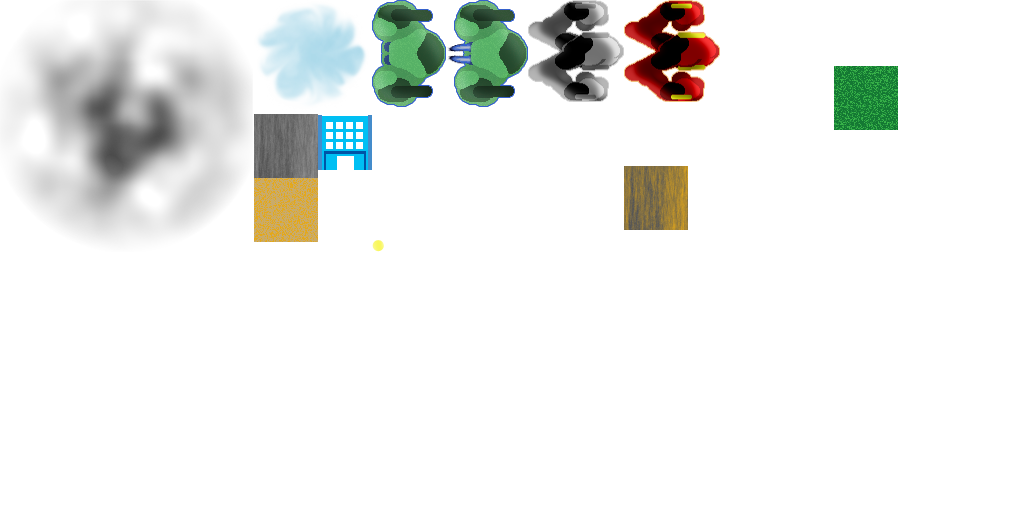
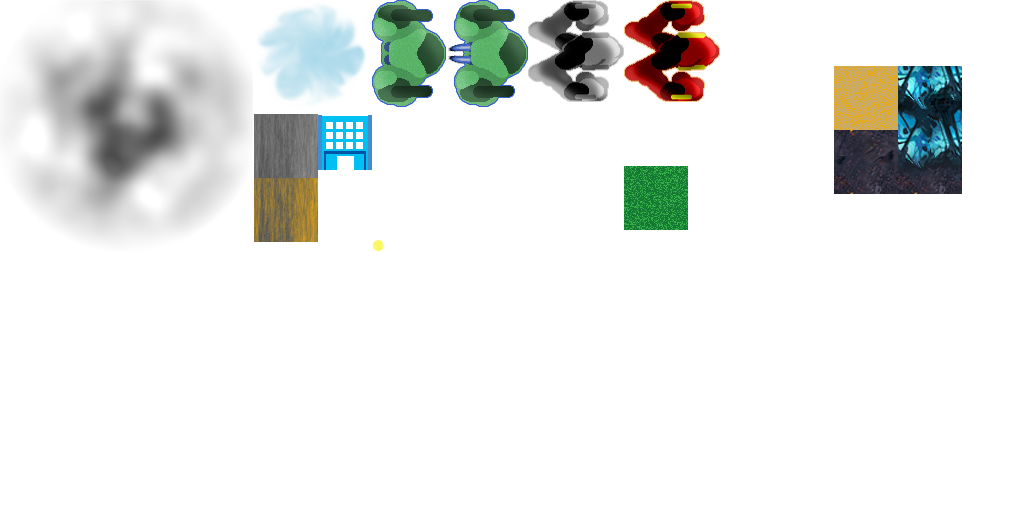
new tileset. towards ambient occlusion

Changed region(s): [[0.8125, 0.125, 0.9375, 0.4062], [0.5938, 0.3125, 0.6875, 0.4688], [0.25, 0.3438, 0.3125, 0.5]]

diff --git a/worldgen.c b/worldgen.c
@@ -19,6 +19,7 @@ enum TestTiles {
   TILE_DIRT,
   TILE_STONE,
   TILE_STONE2,
+  TILE_DIRTSTONE_TRANSITION,
   TILE_BUILDING,
   TILE_MAX
 };
@@ -97,16 +98,18 @@ TileMap tilemap_testmake(SpriteAtlas atlas) {
   TileSpec specs = malloc(sizeof(struct TileSpec_) * TILE_MAX);
   int standard = TILESPEC_COLLIDABLE | TILESPEC_VISIBLE;
 
-  specs[TILE_BLANK].bitmask = TILESPEC_PASSABLE;
   specs[TILE_BLANK].image = NULL;
+  specs[TILE_BLANK].bitmask = TILESPEC_PASSABLE;
   specs[TILE_GRASS].image = spriteatlas_find(atlas, "grass.png");
   specs[TILE_GRASS].bitmask = standard;
-  specs[TILE_DIRT].image = spriteatlas_find(atlas, "dirt.png");
+  specs[TILE_DIRT].image = spriteatlas_find(atlas, "techno1.png");
   specs[TILE_DIRT].bitmask = standard;
-  specs[TILE_STONE].image = spriteatlas_find(atlas, "stone.png");
+  specs[TILE_STONE].image = spriteatlas_find(atlas, "techno2.png");
   specs[TILE_STONE].bitmask = standard;
   specs[TILE_STONE2].image = spriteatlas_find(atlas, "stone2.png");
   specs[TILE_STONE2].bitmask = standard;
+  specs[TILE_DIRTSTONE_TRANSITION].image = spriteatlas_find(atlas, "12uptransition.png");
+  specs[TILE_DIRTSTONE_TRANSITION].bitmask = standard;
   specs[TILE_BUILDING].image = spriteatlas_find(atlas, "building.png");
   specs[TILE_BUILDING].bitmask = standard | TILESPEC_PASSABLE;
 
@@ -216,6 +219,19 @@ TileMap tilemap_testmake(SpriteAtlas atlas) {
   }
   PROFILE_END(&timer);
 
+  // look for stone to dirt transition points
+  int mapsize = MAXX * MAXY;
+  for(xx = 0; xx < mapsize; ++xx) {
+    if(map->tiles[xx] == TILE_DIRT) {
+      int up_idx = xx + MAXX;
+      if(up_idx >= mapsize) continue;
+
+      if(map->tiles[up_idx] == TILE_STONE) {
+        map->tiles[xx] = TILE_DIRTSTONE_TRANSITION;
+      }
+    }
+  }
+
   // replace the bottom row with stone and the top row with sky
   int top_row = (MAXY - 1) * (MAXX - 1);
   for(xx = 0; xx < MAXX; ++xx) {
@@ -226,10 +242,14 @@ TileMap tilemap_testmake(SpriteAtlas atlas) {
   // floodfill from the top and see what we get
   PROFILE_START(&timer, "finding reachable regions");
   struct TilePosition_ start = {0, MAXY - 1};
-  int8_t * reachable = malloc(tilemap_size(map));
-  memset(reachable, -1, tilemap_size(map));
-  struct CharImage_ reachable_img = { MAXX, MAXY, reachable };
-  struct CharImage_ map_img = { MAXX, MAXY, map->tiles };
+
+  struct CharImage_ reachable_img;
+  charimage_init_sizeof_tilemap(&reachable_img, map);
+  memset(reachable_img.data, -1, tilemap_size(map));
+
+  struct CharImage_ map_img;
+  charimage_from_tilemap(&map_img, map);
+
   charimage_floodfill(&reachable_img, &map_img, &start, 1, NULL, NULL);
   PROFILE_END(&timer);
 
@@ -300,7 +320,7 @@ TileMap tilemap_testmake(SpriteAtlas atlas) {
   }
 
   heapvector_free(hv);
-  free(reachable);
+  free(reachable_img.data);
   free(correlation_img.data);
 
   return map;

diff --git a/tiles.c b/tiles.c
@@ -207,6 +207,12 @@ void charimage_from_tilemap(CharImage img, TileMap map) {
   img->data = map->tiles;
 }
 
+void charimage_init_sizeof_tilemap(CharImage img, TileMap map) {
+  img->w = map->width_IT;
+  img->h = map->height_IT;
+  img->data = malloc(img->w * img->h);
+}
+
 void charimage_crosscorrelate(CharImage out, CharImage big, CharImage small) {
   int out_width = big->w - small->w;
   int out_height = big->h - small->h;
@@ -311,4 +317,51 @@ void charimage_spit(CharImage img, const char* filename) {
   }
   charimage_write(img, target);
   fclose(target);
+}
+
+static int region[][3] = {
+  {0, 1, 2},
+  {1, 1, 3},
+  {1, 0, 2},
+  {1, -1, 3},
+  {0, -1, 2},
+  {-1, -1, 3},
+  {-1, 0, 2},
+  {-1, 1, 3}
+};
+
+static int nregion = sizeof(region) / 3;
+
+// chars are ~dist scaled by 2
+char ambient_occlusion(TileMap map, int xx, int yy) {
+  int zz;
+  char result = 0;
+  for(zz = 0; zz < nregion; ++zz) {
+    int ox = region[zz][0];
+    int oy = region[zz][1];
+    int incr = region[zz][2];
+
+    struct TilePosition_ tpos = {xx + ox, yy + oy};
+    if(!tilemap_validindex(map, &tpos)) {
+      // the world edges are occluders
+      result += incr;
+      continue;
+    }
+
+    int8_t kind = map->tiles[tilemap_index(map, &tpos)];
+    if(map->tile_specs[kind].bitmask & TILESPEC_VISIBLE) {
+      result += incr;
+    }
+  }
+  return result;
+}
+
+void charimage_ambient_occlusion(CharImage occlusion, TileMap map) {
+  int xx, yy;
+  for(yy = 0; yy < map->height_IT; ++yy) {
+    for(xx = 0; xx < map->width_IT; ++xx) {
+      int ridx = charimage_index(occlusion, xx, yy);
+      occlusion->data[ridx] = ambient_occlusion(map, xx, yy);
+    }
+  }
 }

diff --git a/tiles.h b/tiles.h
@@ -24,6 +24,11 @@ typedef struct TileSpec_ {
   int bitmask;
 } *TileSpec;
 
+typedef struct CharImage_ {
+  int w, h;
+  int8_t* data;
+} *CharImage;
+
 typedef struct TileMap_ {
   TileSpec tile_specs;
   int width_IT, height_IT;
@@ -52,11 +57,6 @@ typedef int(*LineCallback)(TileMap map, TilePosition pos, void* udata);
 int tilemap_trace_line(TileMap map, TilePosition start, TilePosition end,
                        LineCallback callback, void* udata);
 
-typedef struct CharImage_ {
-  int w, h;
-  int8_t* data;
-} *CharImage;
-
 #define charimage_index(img, x, y) (((img)->w * (y)) + x)
 #define charimage_set(img, x, y, val) ((img)->data[charimage_index(img, x, y)] = val)
 #define charimage_get(img, x, y) ((img)->data[charimage_index(img, x, y)])
@@ -70,6 +70,7 @@ int charimage_floodfill(CharImage out, CharImage input, TilePosition startpos,
                         int8_t value, FloodfillCallback callback, void* udata);
 
 void charimage_from_tilemap(CharImage img, TileMap map);
+void charimage_init_sizeof_tilemap(CharImage img, TileMap map);
 void charimage_crosscorrelate(CharImage out, CharImage big, CharImage small);
 int charimage_size(CharImage img);
 void charimage_replace_value(CharImage img, int8_t from, int8_t to);
@@ -87,5 +88,7 @@ void charimage_label(CharImage img, int8_t* working, LabelCallback callback, voi
 
 void charimage_write(CharImage img, FILE* target);
 void charimage_spit(CharImage img, const char* filename);
+
+void charimage_ambient_occlusion(CharImage occlusion, TileMap map);
 
 #endif

diff --git a/vector.c b/vector.c
@@ -66,6 +66,7 @@ float vector_scalarproject(Vector src, Vector onto) {
   return vector_dot(src, &normonto);
 }
 
+// compute the vector and scalar projection of SRC onto NORMONTO
 float vector_project2(Vector dst, Vector src, Vector normonto) {
   float scalarproj = vector_dot(src, normonto);
   vector_scale(dst, normonto, scalarproj);
